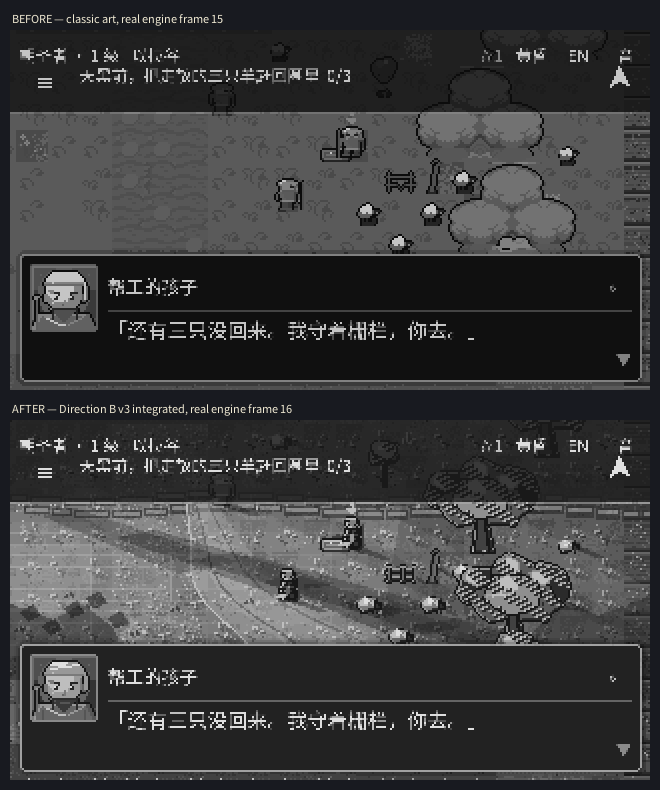
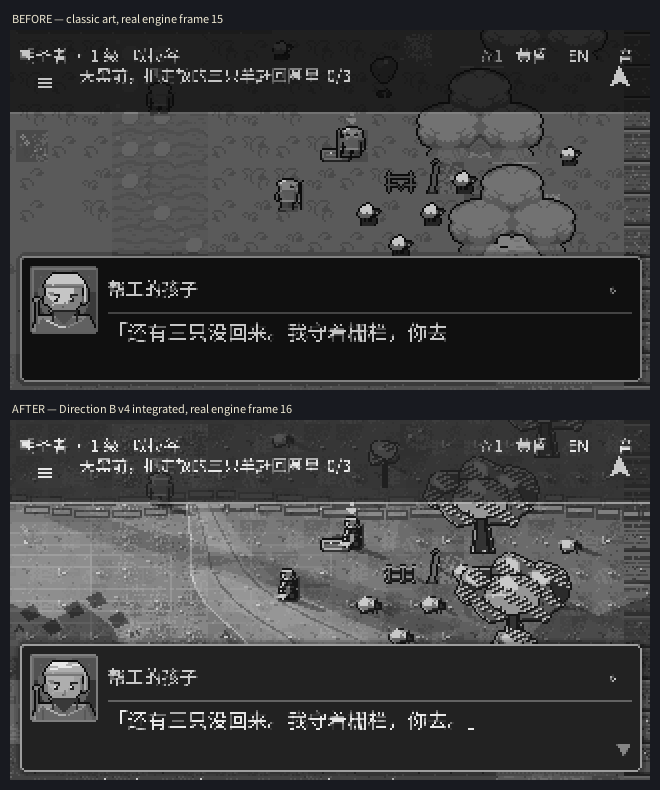
DOCS: record B v4 live feedback, 18/18 frames and final all-green run [skip ci]
User screenshots showed B live but with cream confetti, hard light wedges and
a still-classic duel. Record the B v4 fixes, ArtDirection shared Web theme,
B-palette duel figures, setpiece skins, real frame 18 and final metrics in
ART-RESET.md section 12.11, ART_DIRECTION.md section 12, ITERATION.md section
16, BROWSER-VALIDATION.md, PACKAGING.md and backlog 19/20/22/23.

Promote reviewed baseline_16/17/18 and refresh real-engine metrics/sheets,
including diagnosis/19_B_duel_vs_reference.png. Final run 42850057966 at
97642f6 is all green including deploy; deployment 7687190157 succeeded,
browser 30/0, 18/18 frames decoded, visual_diff clean. Live service worker
stamp verified as 97642f6. Exact painterly parity, human playtest, default
asset replacement, PR, merge and release are still NOT claimed. No code or
live build change; no new CI or deploy needed.

diff --git a/tools/art_reset/measure_real_engine.py b/tools/art_reset/measure_real_engine.py
@@ -12,6 +12,7 @@ Inputs (REAL 320x180 framebuffer captures unless noted):
     frames/15_shepherd_dialogue.png        classic, same camera & dialogue
     frames/16_shepherd_cinematic.png       user-selected Direction B scene
     frames/17_shepherd_cinematic_quiet.png B scene with dialogue closed
+    frames/18_duel_cinematic.png            B duel setpiece, real engine
     docs/art-reset/comparison/16_storybook_final.png  Direction C final
     docs/art-reset/user_selected_reference.png        B concept, 681x348
     docs/art-reset/comparison/16_palette_only.png      previous CI frame, optional
@@ -28,6 +29,7 @@ Outputs:
     docs/art-reset/diagnosis/16_B_engine_vs_reference.png
     docs/art-reset/diagnosis/17_B_engine_vs_reference_grayscale.png
     docs/art-reset/diagnosis/18_B_quiet_vs_reference.png
+    docs/art-reset/diagnosis/19_B_duel_vs_reference.png
     docs/art-reset/comparison/B_engine_{native,desktop,mobile}.png
     docs/art-reset/comparison/B_engine_grayscale_{native,desktop,mobile}.png
     docs/art-reset/comparison/real_engine_metrics.json
@@ -91,9 +93,13 @@ def main():
     quiet = load(quiet_path) if quiet_path.exists() else after
     if quiet_path.exists():
         report["17_shepherd_cinematic_quiet"] = metrics(quiet)
+    duel_path = FRAMES / "18_duel_cinematic.png"
+    duel = load(duel_path) if duel_path.exists() else after
+    if duel_path.exists():
+        report["18_duel_cinematic"] = metrics(duel)
     panels = [
         ("BEFORE — classic art, real engine frame 15", before),
-        ("AFTER — Direction B v3 integrated, real engine frame 16", after),
+        ("AFTER — Direction B v4 integrated, real engine frame 16", after),
     ]
     sheet(panels, DIAG / "04_before_after_real_engine.png")
     sheet([(label, ImageOps.grayscale(im).convert("RGB"))
@@ -180,15 +186,23 @@ def main():
     # this is a review capture with the box closed, not a removed UI.
     sheet([
         ("USER REFERENCE — Direction B concept, painted, 681x348", ref_fit),
-        ("REAL ENGINE — B v3 with dialogue closed, 320x180", quiet),
+        ("REAL ENGINE — B v4 with dialogue closed, 320x180", quiet),
     ], DIAG / "18_B_quiet_vs_reference.png")
+    # The duel used to stay classic while the overworld was golden hour. This
+    # sheet is the real-engine proof that the setpiece now shares the same
+    # light, while keeping its own scene composition and live animation.
+    if duel_path.exists():
+        sheet([
+            ("USER REFERENCE — Direction B concept, painted, 681x348", ref_fit),
+            ("REAL ENGINE — B v4 duel setpiece, 320x180", duel),
+        ], DIAG / "19_B_duel_vs_reference.png")
 
     # 2x2 progression sheet: classic -> C -> B real -> B concept reference.
     classic = load(FRAMES / "15_shepherd_dialogue.png")
     panels4 = [
         ("CLASSIC (frame 15)", classic),
         ("DIRECTION C (assistant-selected)", cf if cfinal.exists() else classic),
-        ("DIRECTION B v3 (user-selected, REAL ENGINE, UI closed)", quiet),
+        ("DIRECTION B v4 (user-selected, REAL ENGINE, UI closed)", quiet),
         ("DIRECTION B CONCEPT (painted reference)", ref_fit),
     ]
     grid = Image.new("RGB", (2 * 640 + 30, 2 * (360 + 26) + 20), (24, 26, 32))
@@ -210,10 +224,13 @@ def main():
           "-> integrated",
           report["16_shepherd_cinematic"]["world_value_spread"])
     if "17_shepherd_cinematic_quiet" in report:
-        print("quiet B v3 world luma",
+        print("quiet B v4 world luma",
               report["17_shepherd_cinematic_quiet"]["world_luma_mean"],
               "spread",
               report["17_shepherd_cinematic_quiet"]["world_value_spread"])
+    if "18_duel_cinematic" in report:
+        print("B v4 duel luma", report["18_duel_cinematic"]["luma_mean"],
+              "edge", report["18_duel_cinematic"]["edge_density"])
 
 
 if __name__ == "__main__":

diff --git a/docs/ART-RESET.md b/docs/ART-RESET.md
@@ -1,10 +1,10 @@
 # ART DIRECTION RESET — real diagnosis, three prototypes, one honest verdict
 
 > **Status: comparison produced, direction retargeted to the user's Direction B,
-> ONE scene integrated as a reversible opt-in prototype with animation intact,
-> and that working branch is LIVE for human playtest. B v3 is materially closer
-> to the golden-hour reference (§12.9), but the visual overhaul is NOT complete
-> and exact parity with a painterly concept is NOT claimed.**
+> the working branch is LIVE for human playtest, and B v4 — quiet ground, a
+> lighter HUD and B-skinned setpieces — is shipping there (§12.11). The visual
+> overhaul is NOT complete and exact parity with a painterly concept is NOT
+> claimed. All 16px-grid animation, collision, gameplay and save format hold.**
 >
 > This file is the evidence for the user's explicit gate: *"START WITH THE
 > EXISTING SHEPHERD-FIELD SCREENSHOT AND PRODUCE A REAL ART-DIRECTION
@@ -870,7 +870,7 @@ frames are transported at 48 colours from a separate job / one step per frame;
 the 15 control frames use 24 colours. Frame 17 is a new UI-free review capture
 (the dialogue box is closed by the game's own input; the HUD is still shipped).
 
-| Measured on 320×180 real frames | classic f15 | B v2 f16 | B v3 f16 | B v3 quiet f17 | B concept, fitted |
+| Measured on 320×180 real frames (B v3, superseded by §12.11) | classic f15 | B v2 f16 | B v3 f16 | B v3 quiet f17 | B concept, fitted |
 |---|---:|---:|---:|---:|---:|
 | whole-frame luma mean | 56.4 | 56.6 | **71.5** | **85.7** | 79.4 |
 | world luma mean (rows 24–112) | 77.3 | 67.9 | **93.8** | **94.5** | 86.6 |
@@ -930,10 +930,10 @@ are untouched, and setting the constant back to `"classic"` restores the old
 look exactly. Gameplay, collision, animation, quests and save format are not
 changed.
 
-**Still partial.** The B theme covers Region terrain, crafted props/actors,
-HUD and dialogue. Dedicated setpiece screens (`GoliathFight`, `SlingPractice`,
-`StoneChoice`) and the journal/menu/transition surfaces do not yet have B
-skins, so this is not a whole-game art replacement or a parity claim. Human
+**Superseded by §12.11.** B v4 now skins `GoliathFight`, `SlingPractice` and
+`StoneChoice` too, ships B-palette duel figures and adds real frame 18. The
+journal/menu/transition surfaces are still not B-skinned, so this remains a
+preview rather than a whole-game art replacement or a parity claim. Human
 playtest is still required. Because this is a PWA, a browser that already
 cached an older build may need one hard refresh / clear-site-data before the
 new sha-stamped service worker takes over; the deployed worker's cache name
@@ -952,3 +952,69 @@ one hard refresh / clear-site-data. This corrects the "why still same" report:
 the live Web preview now starts in Direction B, while desktop/headless/visual
 CI and the classic asset files remain unchanged. No PR, merge, release or
 parity claim.
+
+### 12.11 Direction B v4 — after the user's second live screenshot
+
+The user opened the live preview after §12.10 and sent three real phone
+screenshots. B **was** finally visible in the overworld, but the honest reading
+was: (1) the field was covered in uniform cream confetti, (2) hard translucent
+triangular light wedges crossed the ground, and (3) the Goliath duel was still
+the dark classic setpiece. Those are defects in the B v3 implementation, not a
+reason to change direction. B v4 fixes them on the same working branch.
+
+**What changed.** The 49-cell B atlas still uses the same `data/tiles.json`,
+16px cells, water variants and 84 controlled colours, but per-cell grass,
+blossom, pebble and dust marks are now RARE and clustered; the global
+four-pixel sprinkle is gone. `TerrainLayer` uses five low-alpha cast bands
+instead of seven high-alpha wedges, softer sun shafts and one foreground blade
+per five tiles. The B HUD plate is lighter and warmer. A new
+`scripts/systems/ArtDirection.gd` gives one shared Web-only theme decision, so
+late-created setpieces no longer fall back to classic:
+
+* `GoliathFight` gets B-palette 32×32 / 64×64 David and Goliath figures (exact
+  geometry, alpha, forehead aim band and fall animation), a warm ochre valley
+  with a low upper-left sun, honey ridges, olive army silhouettes, long cool
+  casts and B cream/gold UI colours.
+* `SlingPractice` and `StoneChoice` get warm dusk backdrops, clay/limestone
+  props and B text colours. The drill's timing, the nine stones, input and
+  every setpiece animation are untouched.
+* `tests/visual.gd` captures a real **frame 18_duel_cinematic**; the workflow
+  publishes it as a third one-frame-per-step 48-colour transport. Desktop,
+  headless and Xvfb still return `"classic"`; the 15 control frames stay at 24
+  colours and all reviewed baselines remain valid.
+
+**Final real evidence.** Push `97642f6` / run **`42850057966`** is all green —
+lint, visual, publish-b-frames, export-web, browser, deploy. Deployment
+**`7687190157` = success**; the live `index.service.worker.js` carries cache
+stamp `97642f615821fe108c35baa52b0b1814136daa84`. Browser telemetry:
+`chromium=158.0.8127.18 checks=30 failed=0 consoleErrors=0 pageErrors=0`,
+`DUEL presses=32 won=True`. **18/18** frames decoded complete;
+`visual_diff.py` is clean after promoting reviewed
+`baseline_16_shepherd_cinematic.png`,
+`baseline_17_shepherd_cinematic_quiet.png` and new
+`baseline_18_duel_cinematic.png`.
+
+| Measured on 320×180 real v4 frames | classic f15 | B v4 f16 | B v4 quiet f17 | B v4 duel f18 | B concept, fitted |
+|---|---:|---:|---:|---:|---:|
+| whole-frame luma mean | 56.8 | **75.9** | **91.2** | **79.6** | 79.4 |
+| world luma mean (rows 24–112) | 77.8 | **99.4** | **100.2** | **80.7** | 86.6 |
+| world value spread | 20.4 | **26.3** | **26.4** | 18.2 | 22.6 |
+| edge density | 0.217 | **0.355** | **0.478** | 0.130 | 0.454 |
+| distinct transport colours | 24 | **48** | **48** | **48** | 45,109 |
+
+The quiet frame now has **less** v3 confetti but still more measured edge
+density (0.478) and value spread (26.4) than the fitted concept (0.454 / 22.6);
+the duel frame is a different scene with its own flatter composition (edge
+0.130). See `diagnosis/18_B_quiet_vs_reference.png` and new
+`diagnosis/19_B_duel_vs_reference.png`. These are coarse statistics, not a
+beauty score, and the 48-colour number is CI annotation transport — the live
+Web build uses the full 84-colour atlas and the shared B palette JSON.
+
+**Still not parity.** The concept is a 681×348 painterly, UI-free,
+animation-free illustration with 135,490 native colours. The game remains a
+320×180 16px-grid pixel scene with a HUD, dialogue panel, rectangular tile
+transitions and live sprites. Tree volume, atmospheric haze and the path still
+read differently; the journal/menu/transition surfaces are not B-skinned. Human
+playtest and art-director review remain open. No completion, parity, default
+asset replacement, PR, merge to `main` or release claim is made. A browser
+holding an older PWA cache may need one hard refresh / clear-site-data.

diff --git a/docs/DEVELOPMENT_BACKLOG.md b/docs/DEVELOPMENT_BACKLOG.md
@@ -70,11 +70,11 @@ tests survive; the table above is the current truth.
 | 16 | Native-speaker / author Simplified Chinese pass, including the 石子 / 石头 register split and the aphorisms. Scripture stays verbatim. | M |
 | 17 | Real-device pass: tactile thumb reach, OS rotation, notch/safe area, legibility on an actual handset. Browser emulation is not this. | M |
 | 18 | Hide or fade the touch A/RUN circles for keyboard-only desktop play — only after a device says which input mix to prefer, and with 14 baselines regenerated. | S |
-| 19 | **PARTIAL — B v3, one scene (2026-11-10).** 13 hand-authored opt-in props and 4 character sheets (`pilgrim`, `shepherd`, idle/walk × 4 facings) exist for BOTH directions. B v3 adds a shape-aware outer rim and clumped leaf texture inside the existing canopy alpha, plus an 84-colour controlled 49-cell atlas. Ink outlines, clothing folds, contact shadow and animated rim light remain; frame counts are identical. **Still required:** hand-pixel-edited cycles for every other actor, seam testing, manual art-director pass and human playtest. See `docs/ART-RESET.md` §12.9. | L |
-| 20 | **MEASURED — B v3, much closer but NOT parity.** Final real CI `42818980822`: B v3 quiet frame luma **85.7**, world luma **94.5**, spread **30.9**, edge density **0.517**; fitted concept **79.4 / 86.6 / 22.6 / 0.454**. B v2 was 67.9 world / ~0.20 edge. Coarse metrics are not beauty: the concept has 45,109 fitted colours, no UI and no animation; the game has 48-colour CI transport, a HUD and a 16px grid. **Still open:** tree volume, path rendering, atmospheric haze, human review. See §12.9 and `diagnosis/18_B_quiet_vs_reference.png`. | M |
+| 19 | **PARTIAL — B v4, one scene (2026-11-10).** 13 hand-authored opt-in props and 4 character sheets (`pilgrim`, `shepherd`, idle/walk × 4 facings) exist for BOTH directions. B v4 adds rare clustered detail, a shape-aware outer rim and clumped leaf texture inside the existing canopy alpha, plus an 84-colour controlled 49-cell atlas. Ink outlines, clothing folds, contact shadow and animated rim light remain; frame counts are identical. **Still required:** hand-pixel-edited cycles for every other actor, seam testing, manual art-director pass and human playtest. See `docs/ART-RESET.md` §12.11. | L |
+| 20 | **MEASURED — B v4, much closer but NOT parity.** Final real CI `42850057966`: B v4 quiet frame luma **91.2**, world luma **100.2**, spread **26.4**, edge density **0.478**; fitted concept **79.4 / 86.6 / 22.6 / 0.454**. B v4 duel frame luma **79.6**, edge **0.130**. Cream confetti and hard wedges are reduced, but the concept has 45,109 fitted colours, no UI and no animation; the game has 48-colour CI transport, a HUD and a 16px grid. **Still open:** tree volume, path rendering, atmospheric haze, human review. See §12.11, `diagnosis/18_B_quiet_vs_reference.png` and `diagnosis/19_B_duel_vs_reference.png`. | M |
 | 21 | Give Bethlehem, Saul's court and the valley distinct rendered environments and location-specific atmospheric palettes. Samuel's anointing and Saul's court currently have **no world at all** — they are dialogue over the same two maps. Direction B exists for the shepherd field only. | L |
-| 22 | **PARTIAL — B v3, one live scene.** `TerrainLayer._draw_cinematic_depth()` now draws rutted path stones, four sun shafts, seven long cast bands, a two-course wall, world-anchored foreground blades and irregular framing leaves; `ContactShadowLayer` and `GoldenRimLayer` follow every animated sprite, and only the opt-in B theme lifts story dusk to warm golden light. C remains historical. **Still required:** real parallax, building volume, natural landmarks, per-location light, and restyling journal, menus and transitions. | L |
-| 23 | **NOT DONE — runtime preview only.** `baseline_16_shepherd_cinematic.png` and `baseline_17_shepherd_cinematic_quiet.png` are promoted; all 17 frames are clean. The Web preview now applies B at runtime after user feedback (see `docs/ART-RESET.md` §12.10), but classic source assets, desktop/headless/visual CI and setpiece skins remain classic. **Still required AFTER 19–22:** default asset replacement, all-scene baselines, browser + human playtest and explicit user approval. No PR or merge to `main`. | M |
+| 22 | **PARTIAL — B v4, overworld + setpieces.** `TerrainLayer._draw_cinematic_depth()` now draws rutted path stones, four soft sun shafts, five low-alpha cast bands, a two-course wall, sparse world-anchored foreground blades and irregular framing leaves; `ContactShadowLayer` and `GoldenRimLayer` follow every animated sprite. `GoliathFight`, `SlingPractice` and `StoneChoice` now share the Web B theme with B-palette duel figures and a warm one-light valley. C remains historical. **Still required:** real parallax, building volume, natural landmarks, per-location light, journal/menu/transition skins. | L |
+| 23 | **NOT DONE — runtime preview only.** `baseline_16_shepherd_cinematic.png`, `baseline_17_shepherd_cinematic_quiet.png` and new `baseline_18_duel_cinematic.png` are promoted; all 18 frames are clean. The Web preview applies B at runtime after user feedback (§12.11), but classic source assets, desktop/headless/visual CI and journal/menu/transition surfaces remain classic. **Still required AFTER 19–22:** default asset replacement, all-scene baselines, browser + human playtest and explicit user approval. No PR or merge to `main`. | M |
 
 ## Standing rules for every item
 

diff --git a/docs/ART_DIRECTION.md b/docs/ART_DIRECTION.md
@@ -230,3 +230,32 @@ art-director pass are still required. Classic is still the default in source,
 desktop, headless tests and visual CI; the live Web preview now applies B at
 runtime (§12.10 of `ART-RESET.md`). No PR, merge to `main`, default asset
 replacement or release claim is made.
+
+### §12 — B v4: quiet ground and a golden-hour duel (2026-11-10)
+
+The user's second live screenshot set showed B in the overworld but three
+visible defects: cream confetti across every tile, hard triangular light
+wedges, and a still-classic Goliath duel. B v4 addresses those without
+changing the DS-era contract.
+
+* Atlas marks are rare and clustered; `TerrainLayer` lowers cast-band and shaft
+  alpha, cuts foreground blades, and the B HUD plate is lighter.
+* `ArtDirection.gd` gives one Web-only theme decision. `GoliathFight`,
+  `SlingPractice` and `StoneChoice` now agree with the overworld; the duel has
+  B-palette figures, a warm one-light valley, long casts and gold UI. The
+  figures keep their 32×32 / 64×64 alpha, forehead band and fall rotation.
+* Real CI frame 18 proves the duel in the shipped engine. Final all-green run
+  `42850057966` (`97642f6`) decoded 18/18 frames, browser `30/0`, and deployed
+  `7687190157` = success. `visual_diff.py` is clean with three B baselines.
+
+Final v4 quiet-frame metrics: luma **91.2**, world luma **100.2**, spread
+**26.4**, edge density **0.478**; fitted concept **79.4 / 86.6 / 22.6 / 0.454**.
+B v4 duel: luma **79.6**, edge **0.130**. See `docs/ART-RESET.md` §12.11,
+`diagnosis/18_B_quiet_vs_reference.png`, `diagnosis/19_B_duel_vs_reference.png`
+and `docs/art-reset/cinematic_duel_4x.png`.
+
+Closer is not parity: the painterly concept has 45,109 fitted colours, no UI
+and no animation; the game has a HUD, 16px tiles, rectangular terrain
+transitions and live sprites. Human playtest remains open. Classic source
+assets, desktop/headless/visual CI, `SAVE_VERSION`, collision and animation are
+unchanged. No PR, merge, default replacement or release claim.

diff --git a/docs/ITERATION.md b/docs/ITERATION.md
@@ -796,3 +796,29 @@ including deploy, deployment `7686202899` = `success`, browser `30/0`, and the
 live service worker stamp is `02e5d34...`. The working-branch Web preview now
 starts in B at boot; classic desktop/headless/visual CI stays unchanged. A PWA
 hard refresh may be needed once. No release or parity claim.
+
+## 16. Direction B v4 — user screenshot feedback, quiet ground, B duel
+
+After the live Web theme fix, the user sent three real screenshots: B was
+visible, but the field had cream confetti, hard light wedges, and the duel was
+still classic. `97642f6` fixes all three:
+
+* rare, clustered atlas marks and no global pixel sprinkle; five low-alpha cast
+  bands, softer shafts, one foreground blade per five tiles; lighter B HUD;
+* one shared `ArtDirection.gd` Web-only decision; B-palette 32/64px duel
+  figures and warm golden-hour valley in `GoliathFight`; B skins for
+  `SlingPractice` and `StoneChoice`; no gameplay, timing, fall, save or
+  animation change;
+* real frame 18_duel_cinematic, third one-frame-per-step 48-colour transport,
+  third promoted baseline.
+
+Final run `42850057966` is all green including deploy (`7687190157` success);
+browser `checks=30 failed=0`, `DUEL presses=32 won=True`, 18/18 frames decoded,
+`visual_diff.py` clean. Live service-worker stamp is `97642f6…`. Final v4 quiet
+metrics: luma 91.2, world 100.2, spread 26.4, edge 0.478 vs fitted concept
+79.4 / 86.6 / 22.6 / 0.454. See `docs/ART-RESET.md` §12.11 and
+`diagnosis/19_B_duel_vs_reference.png`.
+
+This is still **not parity** with the painterly, UI-free, animation-free
+reference; the journal/menu/transition surfaces are not B-skinned and human
+playtest remains open. No PR, merge to `main`, default replacement or release.

diff --git a/docs/BROWSER-VALIDATION.md b/docs/BROWSER-VALIDATION.md
@@ -286,3 +286,11 @@ deploy: `chromium=158.0.8127.18 checks=30 failed=0 consoleErrors=0
 pageErrors=0`, `DUEL presses=32 won=True`. Deployment `7686202899` succeeded.
 The live Web runtime now applies B at boot; a hard refresh may be needed once
 to replace an older PWA cache. Still **Release candidate, not release**.
+
+**Final B v4 run.** `42850057966` (`97642f6`) is all green including deploy:
+`chromium=158.0.8127.18 checks=30 failed=0 consoleErrors=0 pageErrors=0`,
+`DUEL presses=32 won=True ending=True corin=True`. Deployment `7687190157`
+succeeded and the live service worker is stamped `97642f6…`. The Web runtime
+now applies B to the overworld AND the duel/drill/brook setpieces; Xvfb/headless
+remain classic. 18/18 visual frames decoded and `visual_diff.py` is clean. A
+PWA hard refresh may be needed once. Still **Release candidate, not release**.

diff --git a/docs/PACKAGING.md b/docs/PACKAGING.md
@@ -379,3 +379,9 @@ CI baselines are unchanged.
 green including deploy (`7686202899` = success), and the live service worker
 cache stamp is `02e5d34dc6ce926a1f51a9ea6b33f60077f29612`. Hard-refresh once if
 an older PWA cache is still active.
+
+**Final B v4 deployment.** `97642f6` / run `42850057966` is all green including
+deploy; deployment `7687190157` = success and the live service worker stamp is
+`97642f615821fe108c35baa52b0b1814136daa84`. The third 48-colour B frame is
+published by its own `publish-b-frames` step. Hard-refresh once if an older PWA
+cache is still active. This is a working-branch preview, not a release or merge.
